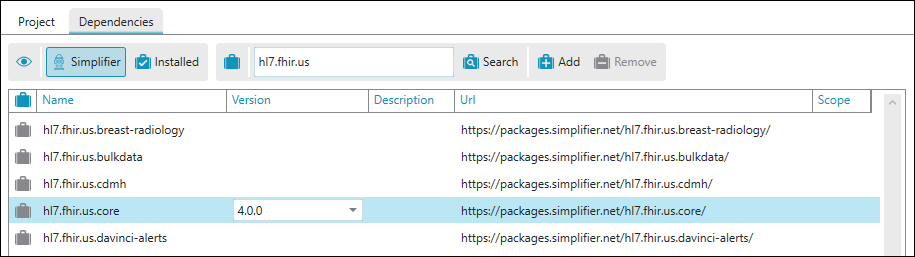
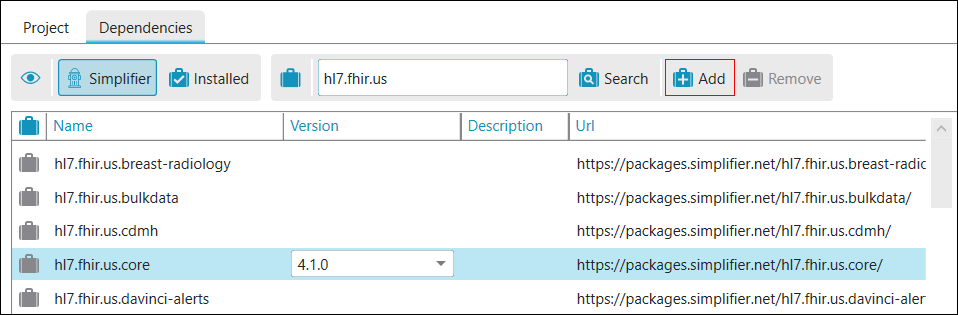
Updated screenshots. Updated page integration with Simplifier. Small changes on other pages.

diff --git a/features/IntegrationwithSimplifier.md b/features/IntegrationwithSimplifier.md
@@ -3,51 +3,103 @@
 [Simplifier.net](https://simplifier.net/) is a FHIR specification development, collaboration and publishing platform. 
 The documentation for the platform can be found [here](https://docs.fire.ly/projects/Simplifier/).
 
-Forge has an option to connect to a project on Simplifier. This will allow you to 
-keep all project files synchronized between Forge and Simplifier.
+Forge can synchronize the project files in your local folder with the files in your project on Simplifier.
 
 ## Create a FHIR Project on Simplifer
 
 When starting a new project, you first have to create a project on Simplifier.
-Clicking the button  
-`Create FHIR Project on Simplifier.net...` will open your 
-browser to the **Create project** page on Simplifier.net using your Simplifier account.
+At the moment you can only do that via the Simplifier website. In Forge you can browse
+to the Simplifier **Create project** page using one of the following options:
+* Click `Create FHIR Project on Simplifier.net...` in one of the following places:
+
+  - File menu
+  - Start panel
+  - Session panel
+* Click `Create...` in the Simplifier toolbar in the Project tab:  
+![Simplifier toolbar commands](../images/LinkToolbar.png)
+
+Enter you project details on Simplifier and click `Create`.
 
 ![Create a project on Simplifier](../images/SyncCreateProject.png)
 
-Enter you project details and click `Create`.
+## Open a FHIR Project from Simplifer
 
-## Connect to a FHIR Project on Simplifer
+* Click `Open FHIR Project from Simplifier.net...` in one of the following places:
 
-Click `Connect to FHIR Project on Simplifer.net...`. This will open a dialog
-listing all the available projects on Simplifier you can connect with.
+  - File menu
+  - Start panel
+  - Session panel
 
-![Connect to a project on Simplifier](../images/SyncConnect.png)
+This will open a dialog listing all the available projects on Simplifier you can open.
 
-The project folder is set to your **Documents** folder by default. However you can
-change the project folder by clicking `...`. Forge will remember the project 
-folder you selected.
+The first time you do this you have to select the parent folder for your FHIR projects.
+Forge will remember the parent folder you selected but you can change it at any time.
 
-![Connect to a project on Simplifier](../images/SyncConnectProjectFolder.png)
+![Select FHIR parent folder](../images/SyncParentFolderSelection.png)
 
 When you select a different project from the list, the project folder name is updated 
 automatically. Note that you can still manually change the project folder name if you want.
-Project folders that are already connected to Simplifier are disabled for selection.
+
+![Open a project from Simplifier](../images/SyncConnect.png)
+
+The project item tooltip displays the project title, description, ![URL Key](../images/UrlKey.png) URL Key
+and folder icon information:
+
+* ![Folder is empty](../images/FolderEmpty.png)	
+An empty folder icon indicates that the project folder does not exist or is empty.
+* ![Folder is not empty](../images/FolderFull.png)	
+A full folder icon indicates that the project folder already contains files and/or subfolders.
+* ![Folder already linked](../images/FolderSimplifier.png)
+Project folders that are already linked to Simplifier are disabled for selection.
 
 The `Filter` button hides projects that are not compatible with the FHIR version of Forge. 
-Turn the filter off to list project from all FHIR versions.
+Turn the filter off to list project for all FHIR versions.
 
-Click `Connect` to create the project folder and download all project files from Simplifier.
+Click `Open` to create the project folder and download all project files from Simplifier.
 
 ![Connected to a project on Simplifier](../images/SyncConnected.png)
 
-If you select an existing project folder that already contains resource files, you have 
-to confirm to overwrite the existing files before you can continue.
+### Open a FHIR Project from Simplifer when you already have a local project folder with files
 
-When your project folder is connected with Simplifier, the project toolbar
-contains an additional section.
+If you select a project folder that already contains resource files and one or
+more files do not match up with the files already on Simplifier, the following dialog will open.
 
-![Simplifier toolbar buttons](../images/SyncToolbar.png)
+![Options when open a project from Simplifier](../images/SyncConnectOptions.png)
+
+You have three options to specify what you would like to do:
+
+* **Keep project folder files:**  
+If a file exists both in your local folder and on Simplifier, then your local file will be taken.
+Files that exist only on Simplifier will be deleted.
+* **Keep Simplifier project files:**  
+If a file exists both in your local folder and on Simplifier, then the Simplifier file will be taken.
+Files that exist only in your local folder will be deleted.
+* **Let me choose which files to keep**
+
+Click `Advanced view` to show a list of all conflicting file changes. 
+When you have selected the option  
+`Let me choose which files to keep` you can 
+choose to keep either your local file change or the file change on Simplifier.
+
+![Advanced optionsSimplifier](../images/SyncConnectOptionsAdvanced.png)
+
+Click `Continue` to create a backup of your local project folder and 
+download the relevant project files from Simplifier.
+
+## Link to FHIR Project on Simplifer
+
+If you have opened a project folder but you have not yet setup a link with an existing 
+Simplifier project, you can do so by clicking `Link` in the Simplifier toolbar.
+
+![Linking to project on Simplifier](../images/SyncLinking.png)
+
+This will open a dialog listing all the available projects on Simplifier you can open.
+
+![Link to project on Simplifier](../images/SyncLink.png)
+
+You cannot change the project folder here because you are linking a Simplifier project to 
+your current project folder. Select the correct Simplifier project from the list and click `Link` 
+to continue.
 
 ## Status of project files
 
@@ -95,12 +147,12 @@ synchronized.
 
 To resolve conflicts you have to switch to the Advanced view by clicking `Advanced view`.
 For each listed file conflict you have 3 choices:
-- Accept yours
-- Accept theirs
-- Leave unresolved
+- **Take yours:**  
+The file from your local project folder will be uploaded to Simplifier and replaces the file on Simplifier.
+- **Take theirs:**  
+The file from Simplifier is downloaded and replaces the file in your project folder.
+- **Leave unresolved:**  
+The conflict remains unresolved therefor no file upload or download will take place.
 
 ![Summary conflicts Advanced view](../images/SyncConflictsAdvancedView.png)
 
-If you click `Accept yours` then your file will be uploaded to Simplifier 
-and their version is overwritten. If you click `Accept theirs` then their file 
-is downloaded from Simplifier and your version is overwritten.

diff --git a/InstallingForge.md b/InstallingForge.md
@@ -9,21 +9,23 @@ Forge is deployed using a
 installer. You can download and install the application without
 requiring administrator permissions (except .NET, see below). The
 application automatically detects and installs updates when you start
-the application. After installation of a new release, you will again
-receive automatic update notifications on application startup.
+the application. After installation of a new release, you will
+receive automatic update notifications when you start the application.
 
-Forge is based [Microsoft .NET Framework 4.7.2, .NET 5](https://dotnet.microsoft.com/learn/dotnet/what-is-dotnet)
+Forge is built with the [Microsoft .NET Framework 4.7.2, .NET 5](https://dotnet.microsoft.com/learn/dotnet/what-is-dotnet)
 and [WPF](https://visualstudio.microsoft.com/vs/features/wpf/). The
 ClickOnce installer will download and install the .NET Framework 4.7.2
 if necessary. Forge itself will download and install .NET 5 if necessary.
 
-> **Warning\!**  
-> Installing or updating the .NET Framework or .NET 5 requires administrator permissions. 
-> If you have insufficient permissions, please contact your system administrator.
+<div class="admonition attention">
+<p class="admonition-title">Attention</p>
+<p>Installing or updating the .NET Framework or .NET 5 requires administrator permissions.
+If you have insufficient permissions, please contact your system administrator.</p>
+</div>
 
 ## Installing on other operating systems
 
-The .NET Framework, .NET 5 and WPF, on which Forge is built, only support the Windows operating system. For users using other platforms, generally the best solution is to **run Windows in a Virtual Machine**, on your own machine or in the cloud, and install Forge on that. [VirtualBox](https://www.virtualbox.org/) is an example of a great, free application to run virtual machines on your computer. Example instructions for [installing Windows on MacOS with VirtualBox can be found here](https://www.howtogeek.com/657464/how-to-install-a-windows-10-virtualbox-vm-on-macos/).
+The .NET Framework and WPF are only supported on the Windows operating system. For users using other platforms, generally the best solution is to **run Windows in a Virtual Machine**, on your own machine or in the cloud, and install Forge on that. [VirtualBox](https://www.virtualbox.org/) is an example of a great, free application to run virtual machines on your computer. Example instructions for [installing Windows on MacOS with VirtualBox can be found here](https://www.howtogeek.com/657464/how-to-install-a-windows-10-virtualbox-vm-on-macos/).
 <!--
 In some cases it is also possible to run Forge on Linux or MacOS using [Wine](https://www.winehq.org/). While we do not officially support this, the steps to get you started are below.
 

diff --git a/features/OpenaProjectFolder.md b/features/OpenaProjectFolder.md
@@ -9,10 +9,12 @@ click `Open FHIR Project Folder...` and select your working directory.
 ![Open a folder in Forge](../images/OpenFolder.png)
 
 Note that although Forge allows you to select any folder, it would be a
-very bad idea to select a general folder like "C:\Documents" as your
-project folder. If you don't have a specific folder for your project,
+very bad idea to select a general folder like ***C:\Documents*** as your
+project folder. If you are managing multiple projects it is good practice to 
+organize all of your projects under the same parent folder: for example ***FHIR***. 
+If you don't have a specific folder for your project,
 please create one. For example, let's open my project folder called
-*MyForgeProject*. By default subdirectories are not included. Select this
+***MyForgeProject***. By default subdirectories are not included. Select this
 option to include all subdirectories of the selected folder. This may be
 convenient if you want to organize your profiles in separate folders,
 but still want to be able to edit them in the same project. On the other

diff --git a/features/CreateDerivedProfiles.md b/features/CreateDerivedProfiles.md
@@ -34,7 +34,7 @@ To do this in Forge you first need to add one or more Core Packages.
 The following example adds the **hl7.fhir.us.core** package to the project.
 Select the `Dependencies` tab, then click `Simplifier`, then type *hl7.fhir.us*
 in the **Search** field and finally click `Search`. Select **hl7.fhir.us.core**
-in the list and then select package version **4.0.0**. Finally click `Add` to
+in the list and then select package version **4.1.0**. Finally click `Add` to
 add the package to the project. 
 
 ![Add a core package](../images/DerivedAddPackage.png)
@@ -45,7 +45,7 @@ packages are installed too.
 ![Installed packages](../images/DerivedPackagesInstalled.png)
 
 To create a derived profile for the US Core Patient, open the package 
-**hl7.fhir.us.core#4.0.0** by selecting it from the list and clicking
+**hl7.fhir.us.core#4.1.0** by selecting it from the list and clicking
 `Open`. Then select **package** in the list and click `Open`. In the **Filter** toolbar
 select **Patient** as Structure Type to filter on.
 

diff --git a/features/CreateLogicalModels.md b/features/CreateLogicalModels.md
@@ -10,7 +10,8 @@ based on FHIR resources. FHIR provides a StructureMap resource and a
 mapping language that allow you to define and implement the actual
 mapping operations.
 
-To create Logical Models in Forge select the `New Logical Model` command.
+From your project folder, go to `New...` and click `New Logical Model` 
+(or **Ctrl+M**) to create a new logical model.
 Enter a name for your logical model and click `OK`.
 
 ![Creating a Logical Model in Forge](../images/LogicalModel-Create.png)

diff --git a/features/CreatenewProfiles.md b/features/CreatenewProfiles.md
@@ -4,6 +4,8 @@ Forge enables you to create your own FHIR Profiles, based on one of the
 FHIR base resources. To open a base resource and start editing, you can
 select `New...` \ `New Profile` (or **Ctrl+N**) from your project folder.
 
+![Project folder toolbar](../images/NewProfileMenu.png)
+
 This will open a window in which you can select one of the base
 Resources or DataTypes.
 
